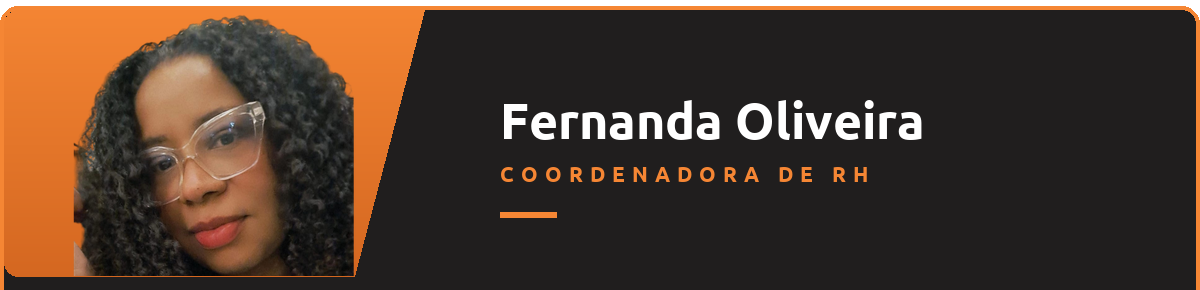
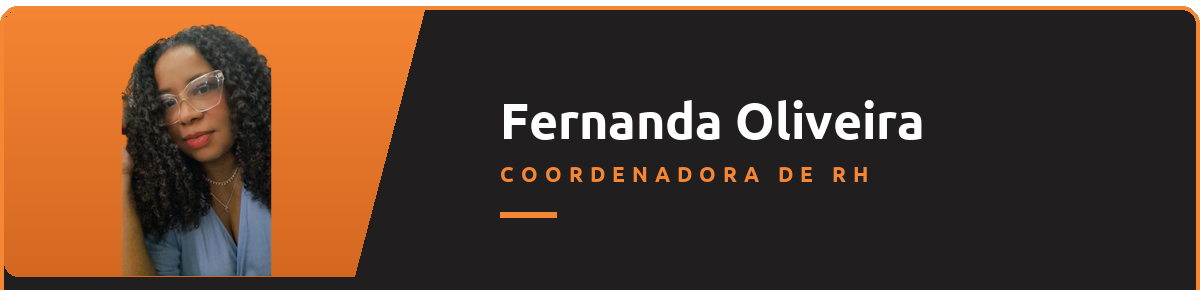
Fernanda: foto inteira reduzida para caber no painel
A pedido do Paulo, o crop deixa de fechar no rosto e pega a selfie inteira
(altura cheia), centrada no painel com laranja dos lados.

Changed region(s): [[0.0617, 0.031, 0.3083, 0.9621]]

diff --git a/ferramentas/pessoas.py b/ferramentas/pessoas.py
@@ -173,8 +173,9 @@ PESSOAS = {
         # opaca e cor dos cachos re-estimada sem o bege do teto (pymatting).
         # Reduzido a 674x1199. A selfie é fechada e o cabelo sai do quadro dos
         # dois lados: qualquer crop que mostre o queixo deixa cortes retos no
-        # cabelo. Este alinha o corte direito com a diagonal do painel.
-        "crop": (-115, 50, 706, 690),
+        # cabelo. A pedido do Paulo, o crop pega a foto INTEIRA (altura cheia),
+        # reduzida para caber no painel e centrada, com laranja dos lados.
+        "crop": (-432, 0, 1106, 1199),
         "espelhar": False,
     },
 }
